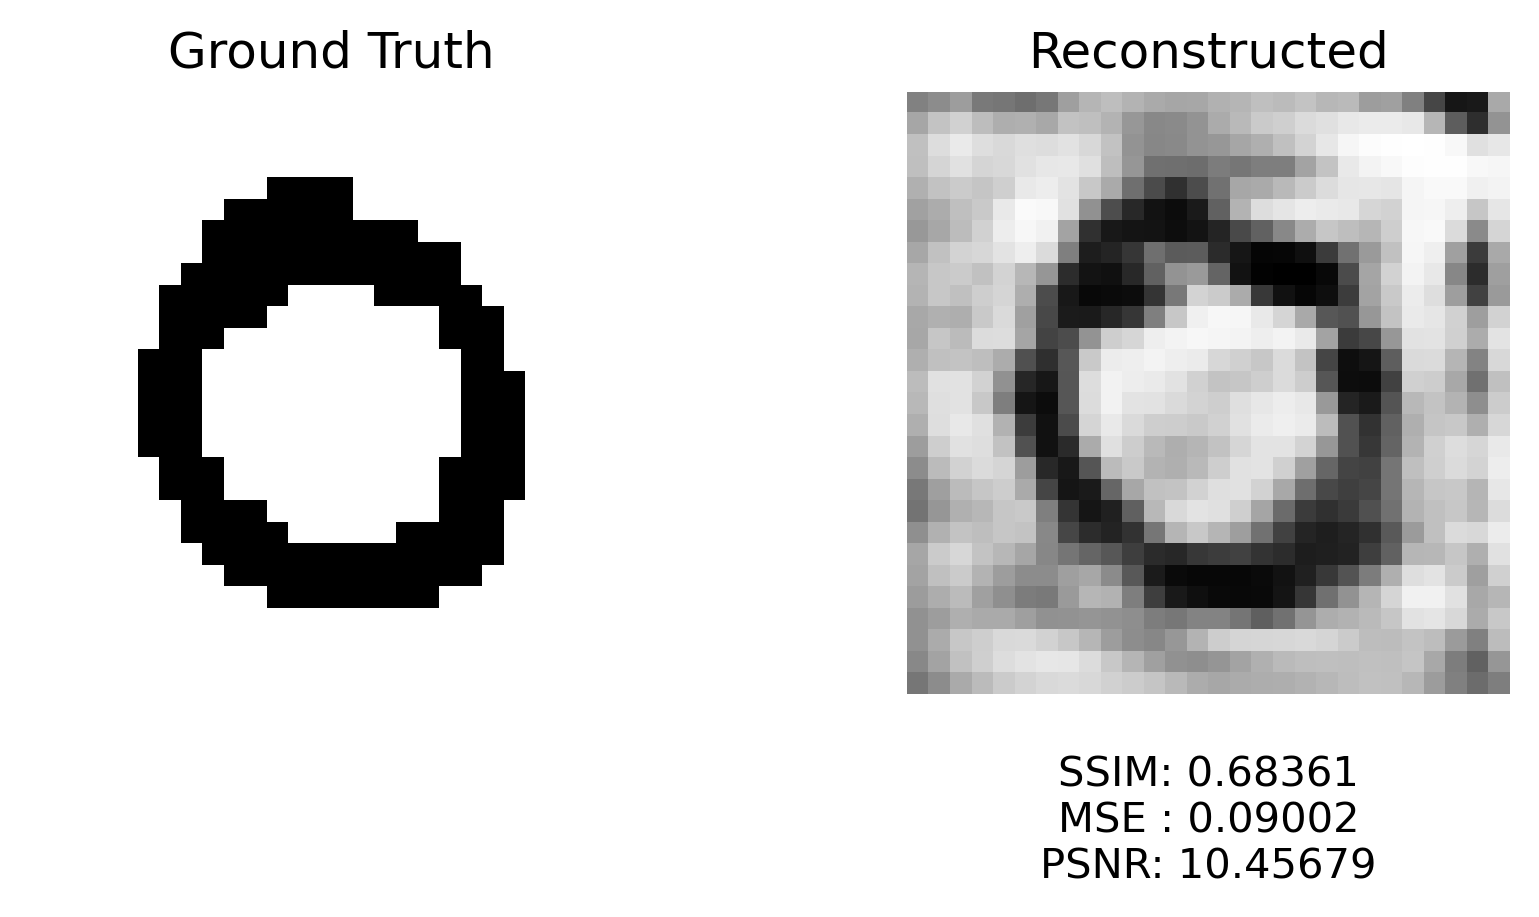
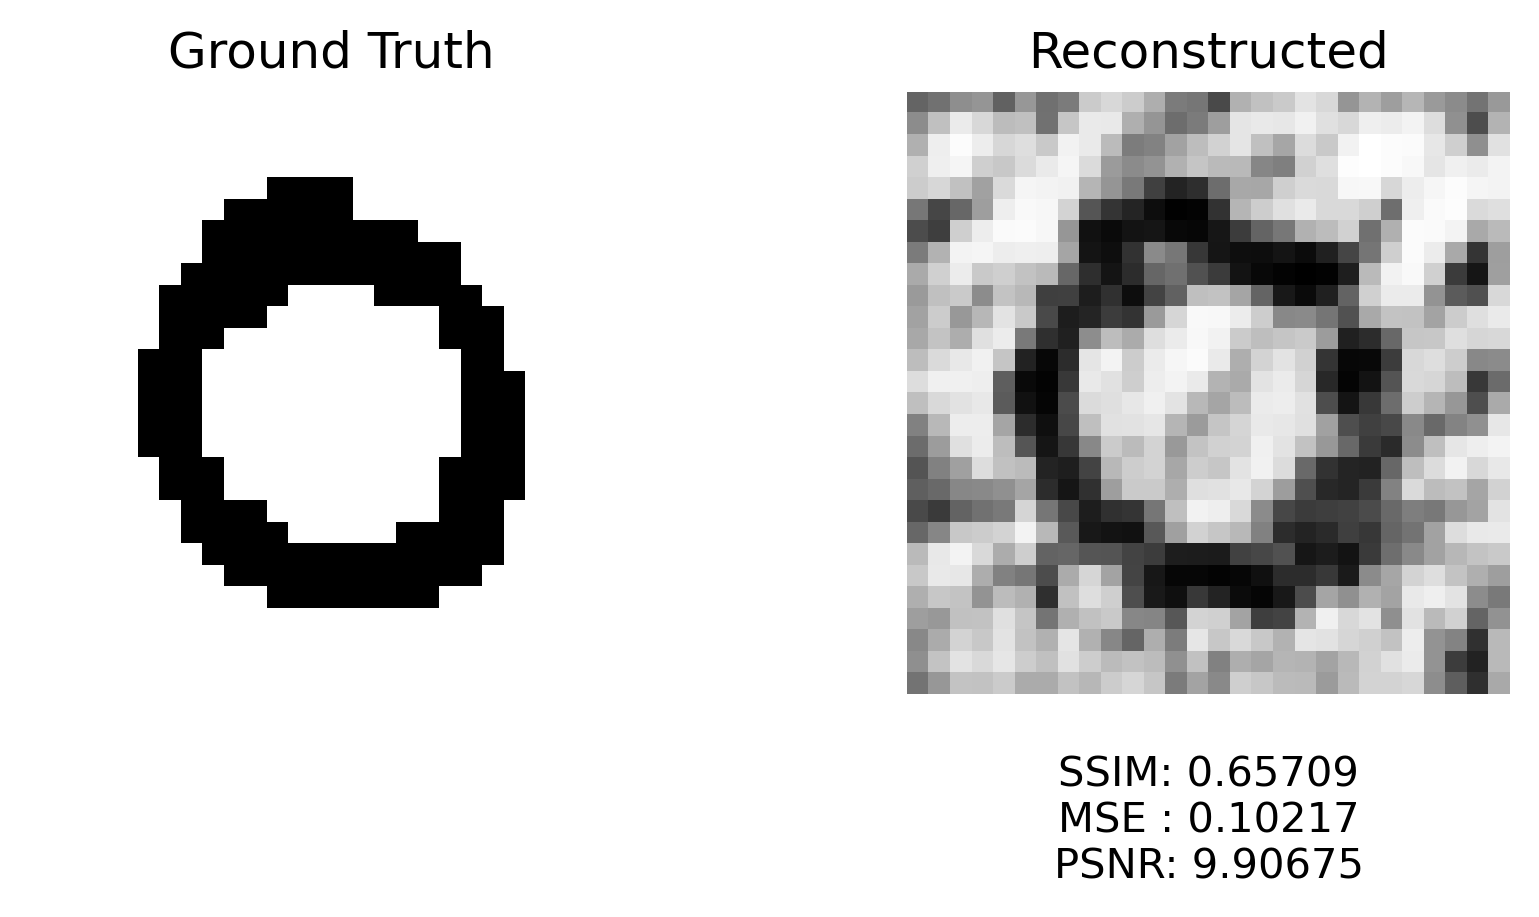
speckleを2倍

Changed region(s): [[0.5614, 0.0916, 0.9981, 0.7634], [0.655, 0.8244, 0.9045, 0.9771]]

diff --git a/src/trainer.py b/src/trainer.py
@@ -6,7 +6,7 @@ import torch.optim as optim
 from src.dataset.process import load_npz_file, load_npz_signal, target_image, collected_signal
 from src.dataset.speckle_pred import speckle_pred_inv
 from src.utils.inv_recon import img_reconstruction
-from src.utils.utils import np_to_torch, min_max_normalize, total_variation_loss, image_save
+from src.utils.utils import np_to_torch, min_max_normalize, total_variation_loss, image_save, standardize
 from src.models.linear import FCModel
 from src.models.GIDC import GIDC28
 # python -m src.trainer
@@ -125,7 +125,8 @@ def train_gidc(collected_path, target_path, select):
     recon_list = []
     for num in range(10):
         print(f"\n================ Image {num} の学習開始 ================\n")
-        input = min_max_normalize(X_input_tensor[num].reshape((1, 1, 28, 28))).to(device)
+        # input = min_max_normalize(X_input_tensor[num].reshape((1, 1, 28, 28))).to(device)
+        input = standardize(X_input_tensor[num].reshape((1, 1, 28, 28))).to(device)
         y_ = Y_mnist_tensor[num].to(device)
         # print(y_.shape)
         model = GIDC28(kernel_size=5, name="gidc", select=select).to(device)

diff --git a/src/utils/utils.py b/src/utils/utils.py
@@ -31,6 +31,16 @@ def min_max_normalize(input_tensor):
     normalized_tensor = (input_tensor - min_val) / (max_val - min_val)
     return normalized_tensor
 
+def standardize(input):
+    mean = input.mean()
+    std = input.std()
+    epsilon = 1e-7
+    normalized_tensor = (input - mean) / (std + epsilon)
+    print("mean (before):", mean.item())
+    print("std (before):", std.item())
+    print("mean (after):", normalized_tensor.mean().item())
+    print("std (after):", normalized_tensor.std().item())
+    return normalized_tensor
 
 def total_variation_loss(x):
     # 縦方向の差分 |x[i, j+1] - x[i, j]|
